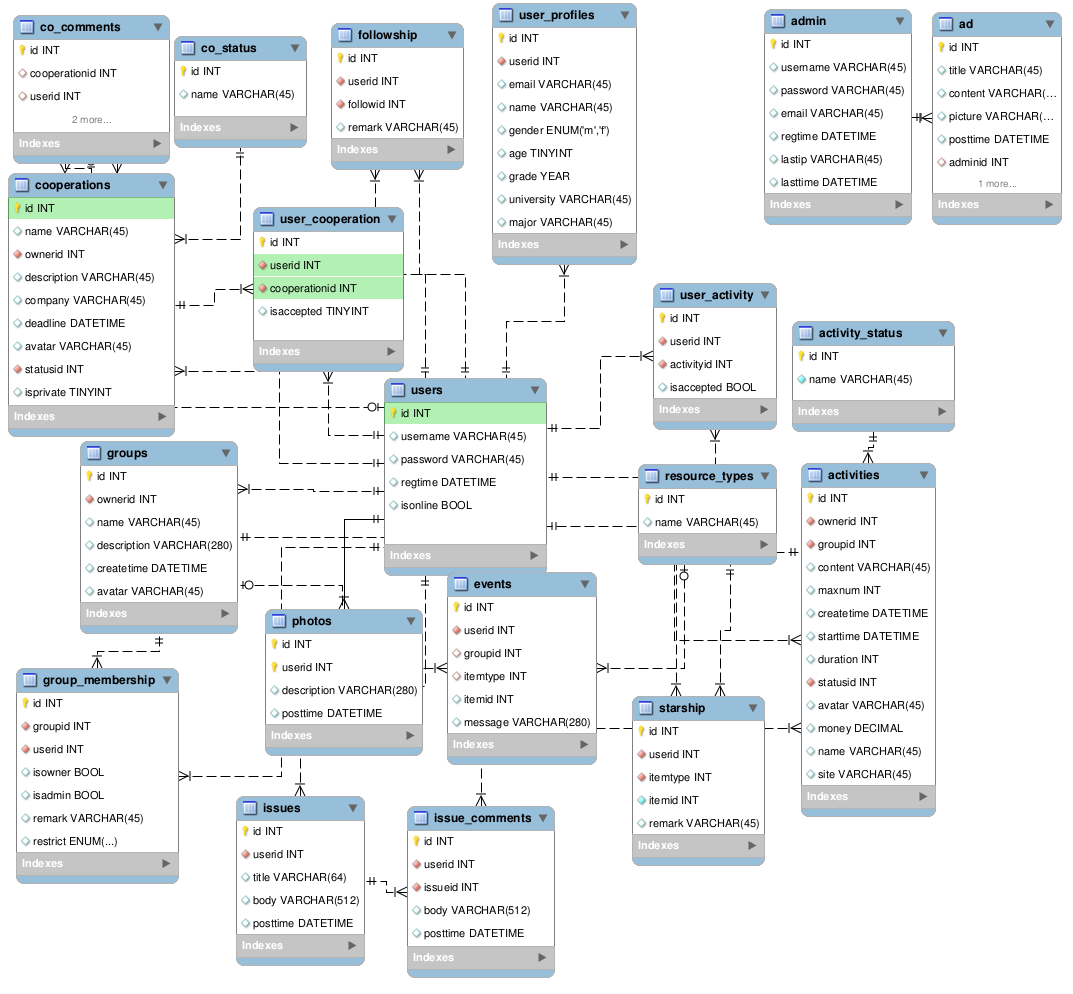
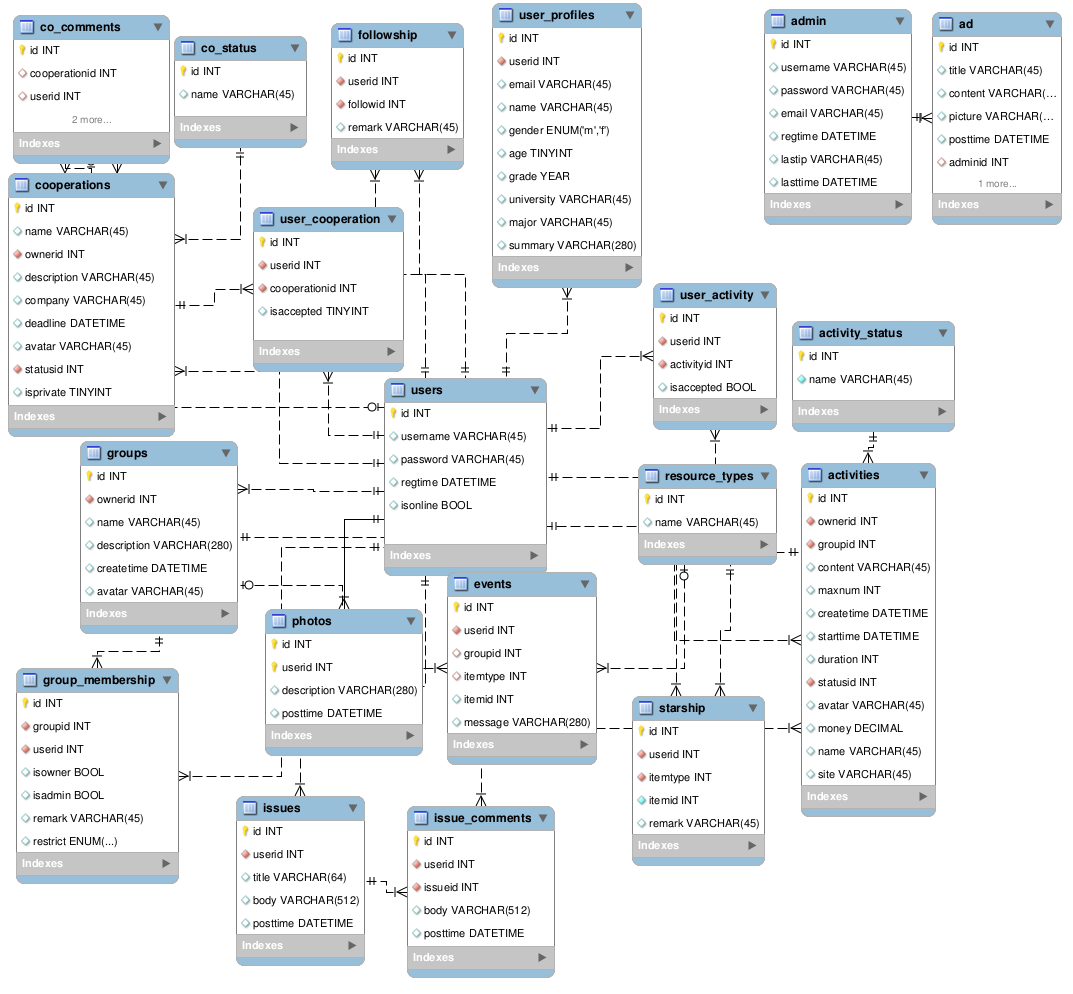
add summary for user-profile

diff --git a/models/user-profile.js b/models/user-profile.js
@@ -7,7 +7,7 @@ UserProfile = module.exports = syBookshelf.Model.extend({
 	tableName: 'user_profiles',
 	fields: [
 		'id', 'userid', 'email', 'name', 'gender',
-		'age', 'grade', 'university', 'major'
+		'age', 'grade', 'university', 'major', 'summary'
 	],
 	omitInJSON: ['id', 'userid'],
 
@@ -30,7 +30,8 @@ UserProfile = module.exports = syBookshelf.Model.extend({
 			age: age,
 			grade: 2011 - age + 20 + _.random(-2, 2),
 			university: chance.city() + ' University',
-			major: chance.capitalize(chance.word())
+			major: chance.capitalize(chance.word()),
+			summary: chance.sentence()
 		});
 	}
 });

diff --git a/setup/index.js b/setup/index.js
@@ -40,7 +40,7 @@ var fs = require('fs-extra'),
 	numActivities = numGroups * 2,
 	numUserActivitys = numActivities * 5,
 	numIssues = numUsers * 3,
-	numComments = numIssues * 8,
+	numComments = numIssues * 4,
 	numPhotos = numUsers * 3,
 	numCooperations = 20,
 	numUserCooperations = 100,
